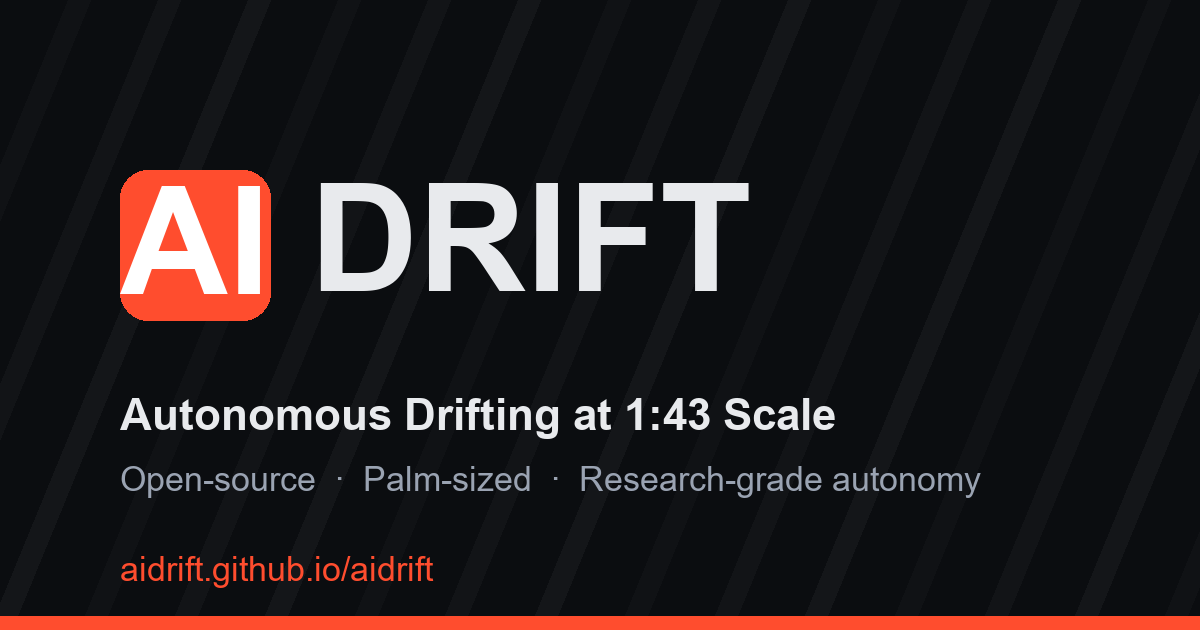
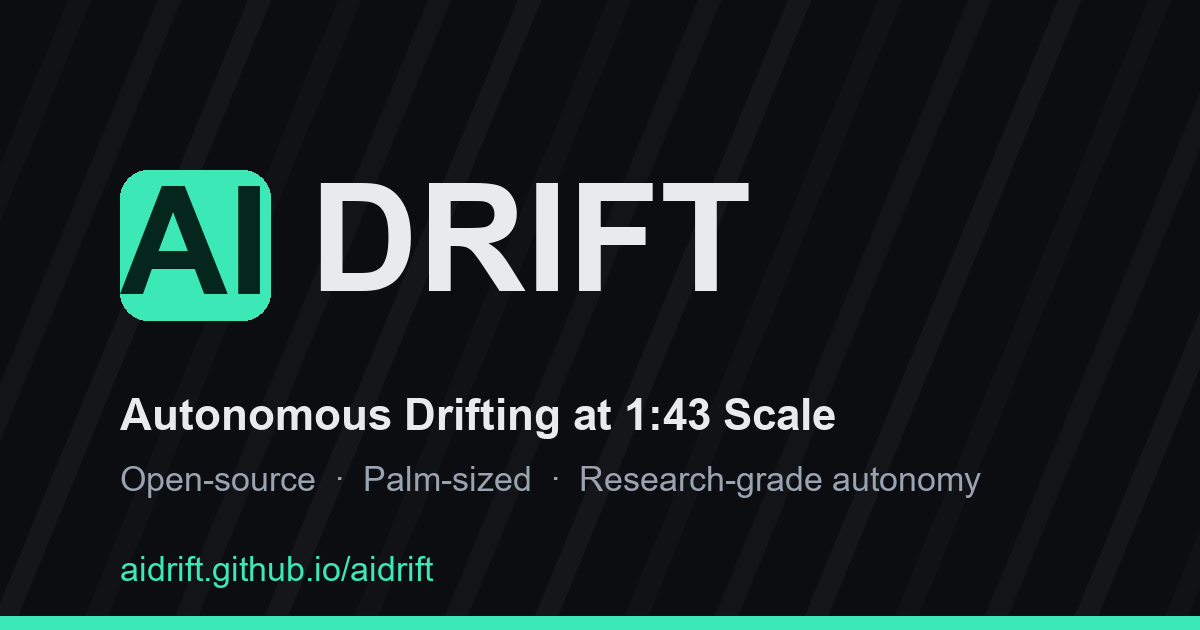
Recolor: mint-on-black theme (accent #3ce8b6)
Accent, hero glow, buttons, badge, favicon, and og image switched
from signal orange to mint; dark text on mint surfaces for contrast.

Changed region(s): [[0.0, 0.9651, 1.0, 1.0], [0.0925, 0.2714, 0.2467, 0.5127], [0.0925, 0.8746, 0.37, 0.9349]]

diff --git a/assets/css/style.css b/assets/css/style.css
@@ -10,9 +10,10 @@
   --panel-edge: #232935;
   --text: #e8eaed;
   --text-dim: #9aa3b2;
-  --accent: #ff4d2e;
-  --accent-soft: rgba(255, 77, 46, 0.12);
-  --accent-2: #ffb020;
+  --accent: #3ce8b6;
+  --accent-soft: rgba(60, 232, 182, 0.12);
+  --accent-2: #7ff5d4;
+  --on-accent: #05261c;
   --radius: 14px;
   --maxw: 1100px;
   --font: "Montserrat", system-ui, -apple-system, "Segoe UI", sans-serif;
@@ -69,7 +70,7 @@ a:hover { text-decoration: underline; }
 .brand:hover { text-decoration: none; }
 .brand .badge43 {
   background: var(--accent);
-  color: #fff;
+  color: var(--on-accent);
   border-radius: 6px;
   padding: 1px 7px;
   font-size: 0.85rem;
@@ -104,8 +105,8 @@ a:hover { text-decoration: underline; }
   position: relative;
   overflow: hidden;
   background:
-    radial-gradient(ellipse 80% 60% at 70% 20%, rgba(255, 77, 46, 0.14), transparent 60%),
-    radial-gradient(ellipse 60% 50% at 20% 80%, rgba(255, 176, 32, 0.07), transparent 60%),
+    radial-gradient(ellipse 80% 60% at 70% 20%, rgba(60, 232, 182, 0.13), transparent 60%),
+    radial-gradient(ellipse 60% 50% at 20% 80%, rgba(127, 245, 212, 0.06), transparent 60%),
     var(--bg-alt);
   border-bottom: 1px solid var(--panel-edge);
 }
@@ -144,7 +145,7 @@ a:hover { text-decoration: underline; }
   transition: transform 0.15s ease, box-shadow 0.15s ease;
 }
 .btn:hover { text-decoration: none; transform: translateY(-2px); }
-.btn-primary { background: var(--accent); color: #fff; box-shadow: 0 6px 22px rgba(255, 77, 46, 0.35); }
+.btn-primary { background: var(--accent); color: var(--on-accent); box-shadow: 0 6px 22px rgba(60, 232, 182, 0.3); }
 .btn-ghost { border: 1px solid var(--panel-edge); color: var(--text); background: var(--panel); }
 
 /* ---------- Sections ---------- */
